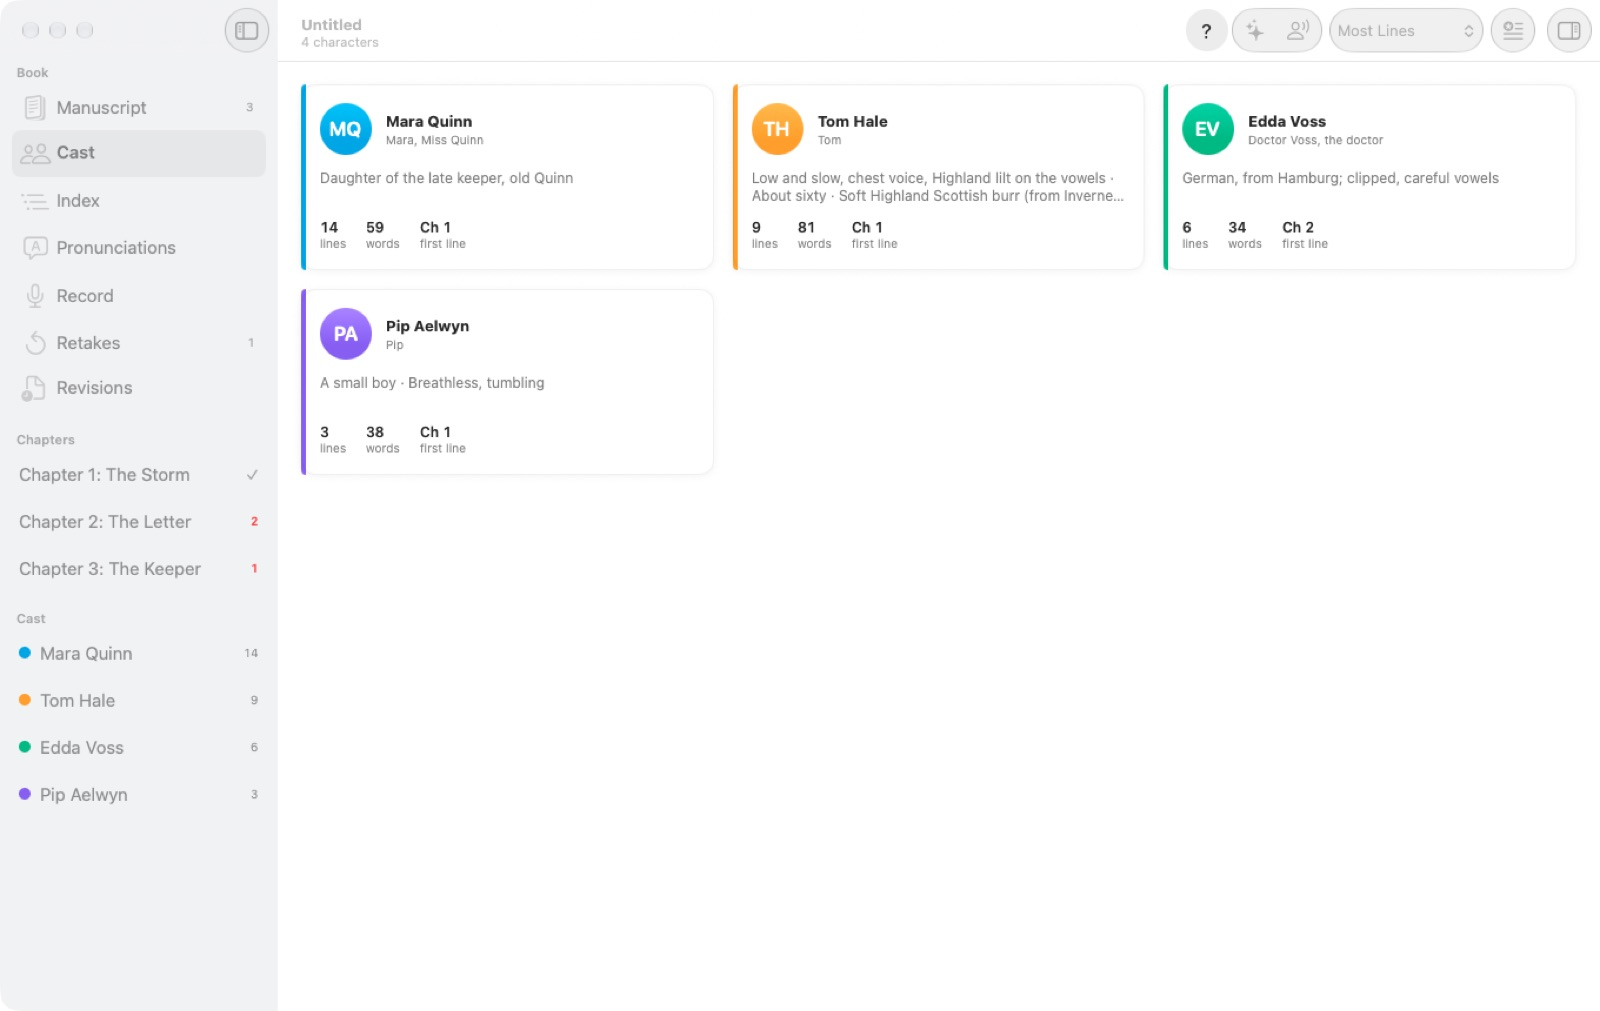
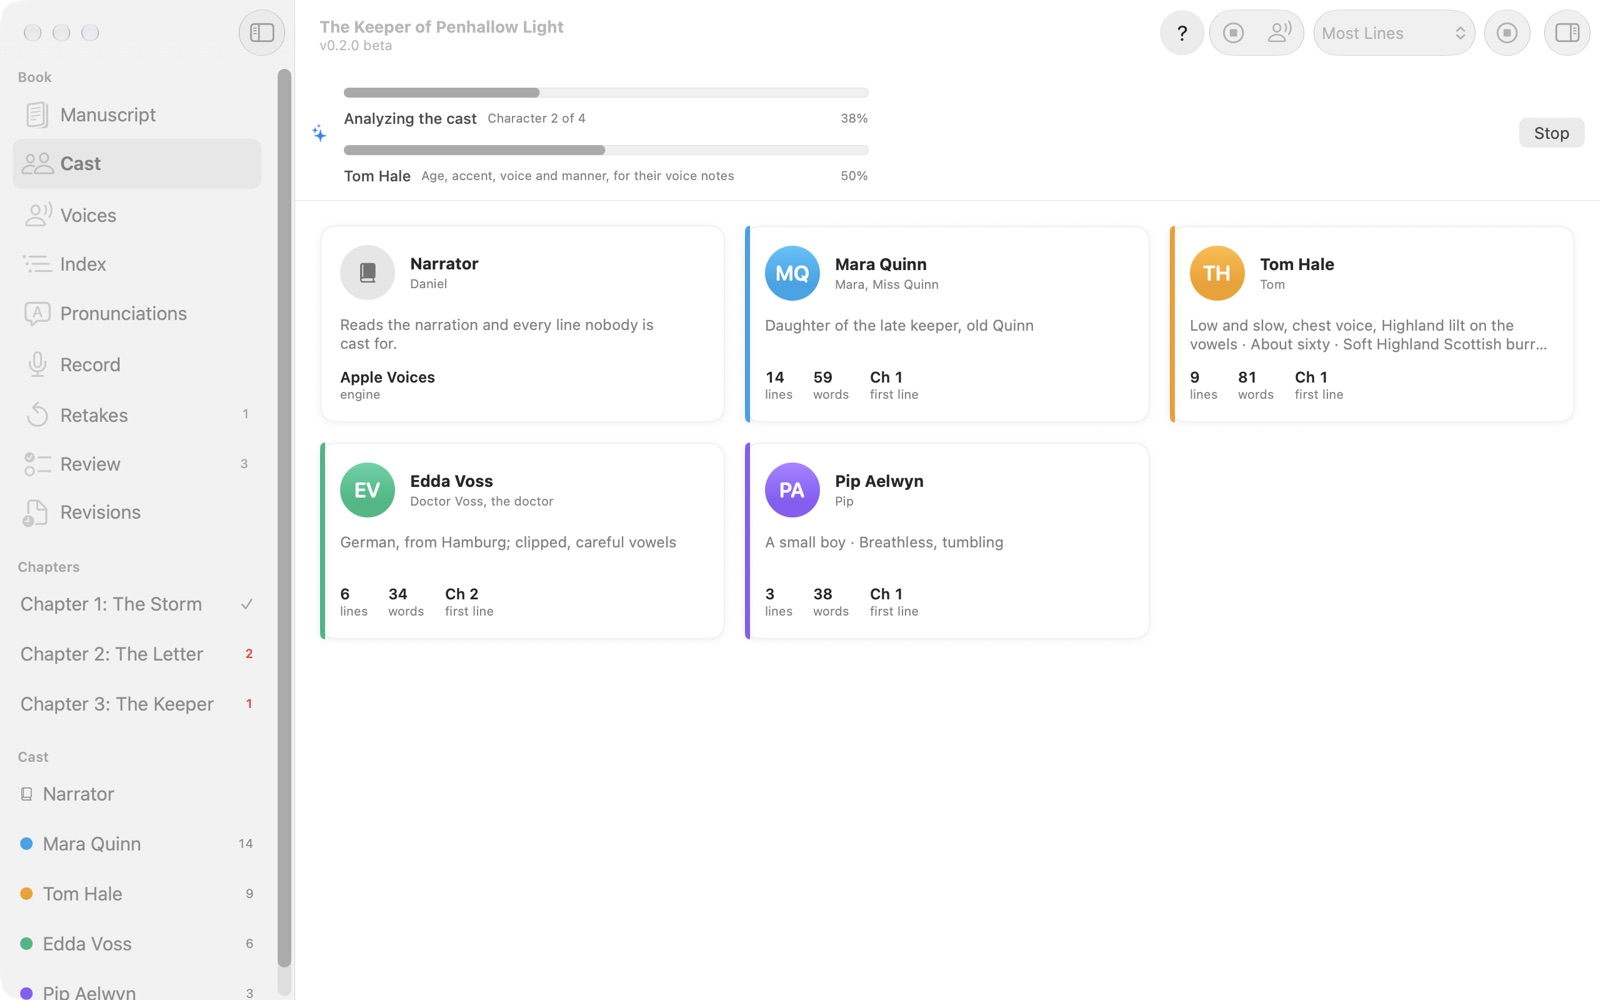
README and Help: project types, voice notes, voice briefs, engines, ElevenLabs, pauses, stats; new screenshots

diff --git a/Sources/InnerVoice/System/HelpTopics.swift b/Sources/InnerVoice/System/HelpTopics.swift
@@ -200,7 +200,7 @@ enum HelpTopic: String, CaseIterable, Identifiable, Hashable {
             .text("Then each book asks before its text is sent for the first time, when you choose ElevenLabs (or include it in Mix Engines) on its Voices page. A table read or an exported book sends the whole manuscript, so allow it only for books you have the right to share. Stop Sending This Book on the Voices page ends it for that book, and Disconnect in Settings › Voices forgets the key. Audio ElevenLabs already made stays in the saved audio on this Mac."),
             .heading("Voice Notes and the AI voices"),
             .text("Qwen3-TTS and ElevenLabs can design a voice from a description, so they get each character's Voice Notes: your own notes first, then the voice brief and \"From the book\". With Qwen3-TTS this happens on its own: a character whose summary or Voice Notes say how they sound gets a voice designed for them, and the notes go with it every time it speaks, so editing them changes the voice (the first line after an edit takes a few seconds while the new voice is made). Ready-made voices you pick stay as they are."),
-            .text("With ElevenLabs, click Design Voice under Design a Voice from Voice Notes on a character's Voices page. You see exactly what will be sent; ElevenLabs designs a voice from it, adds it to your ElevenLabs voices, and gives it to the character. It uses credits and one of your plan's voice slots, so it only happens when you click. Orpheus and Apple voices can't take a description: casting reads the notes for gender, age, pitch and pace instead."),
+            .text("With ElevenLabs, click Design Voice under Design a Voice from Voice Notes on a character's Voices page. You see exactly what will be sent; ElevenLabs designs a voice from it, adds it to your ElevenLabs voices, and gives it to the character. It uses credits and one of your plan's voice slots, so it only happens when you click. If a character's voice list says ElevenLabs voices haven't loaded, click Load Voices; when loading fails it says why (a key without permission to read voices, no credits left, or no internet). Orpheus and Apple voices can't take a description: casting reads the notes for gender, age, pitch and pace instead."),
             .text("Download Qwen3-TTS and Orpheus once from Settings › Voices, or from the Voices page when you choose one. Downloading is the only time they use the internet; your book never leaves the Mac. They need a Mac with Apple silicon, and the first line takes a few seconds while the engine loads."),
             .text("Want a wider range? Choose Mix Engines from the engine menu on the Voices page (when two or more engines are on). Every voice from every engine that's on is in one list, and casting picks from all of them; each character can sound like a different engine. On a Mac with 32 GB of memory or more, Qwen3-TTS and Orpheus stay loaded together, so lines play without waiting for a model to load."),
             .text("The first line from Qwen3-TTS or Orpheus takes a few seconds while the engine loads; a bar at the bottom of the window says so. If a line can't play, the bar says why."),
@@ -218,7 +218,7 @@ enum HelpTopic: String, CaseIterable, Identifiable, Hashable {
             .text("After it reads about everyone, Build Summaries writes a voice brief for each character into their Voice Notes under \"Voice brief:\": pitch, pace, texture, attitude, and how they should differ from the characters they share scenes with (\"Lower and slower than Mara; rougher than Edda\"). Main characters come first, so each later brief can set itself apart from voices already described. Your own notes come first when the AI writes it."),
             .text("Casting reads the brief: a low or high pitch and a slow or quick pace go into the Qwen3-TTS voice description and nudge the pitch and speed of Apple voices. Like \"From the book\", the brief is yours once you edit it."),
             .heading("When the AI is working"),
-            .text("Whenever the AI is working in the background (Tag Speakers, Build Summaries, voice briefs, or an AI voice engine loading its models), a bar at the top of the page shows how far it has got, with Stop for the runs you started."),
+            .text("Whenever the AI is working in the background (Tag Speakers, Build Summaries, voice briefs, or an AI voice engine loading its models), a bar at the top of the page shows how far it has got, with Stop for the runs you started. It's on every page, the Cast page and each character's page included; in the Manuscript, Tag Speakers shows its own banner."),
             .heading("Voice notes from the book"),
             .text("What Build Summary learns about how a character sounds (age, gender, accent, voice and manner) goes into their Voice Notes under \"From the book:\", below anything you wrote. Casting and the AI voices read the notes, so editing them fine-tunes how the character sounds; voices you chose yourself don't change. Once you edit the \"From the book\" part it's yours, and Build Summary leaves it alone. Delete it to get a fresh one next time."),
             .text("A fact the AI can't back up with text from the book is dropped, so every fact you see can be checked."),
@@ -226,6 +226,7 @@ enum HelpTopic: String, CaseIterable, Identifiable, Hashable {
             .text("A fact marked Revealed Late is first mentioned after the character's first line, for example \"First speaks Ch 2, revealed Ch 20\". It's worth knowing before you choose a voice in Chapter 2."),
             .heading("Editing"),
             .text("Change a character's name, aliases, color or any fact, and add your own notes and voice notes. A fact you edited is never replaced when Build Summaries runs again."),
+            .text("What you type in these fields is saved when you pause, press Return or click elsewhere, so typing stays quick on a long book. A burst of typing is one step to undo (⌘Z)."),
         ]
 
         case .indexAndRehearse: [
@@ -356,6 +357,7 @@ enum HelpTopic: String, CaseIterable, Identifiable, Hashable {
             .text("Settings › General › Updates chooses what InnerVoice does when a new version is out: install it automatically while your Mac is idle and the AI isn't working, ask you first, or not check at all. Check Now looks right away."),
             .heading("What's new"),
             .text("The update window shows the notes for the latest releases, with the ones you don't have yet marked New. \"Don't remind me about this version\" is ticked to begin with: click Not Now with it ticked, and InnerVoice stops reminding you about that version (Check Now still offers it)."),
+            .text("The version you're running is on the Welcome window, under the book's name at the top of every project window, and in About InnerVoice."),
             .text("After an update that installed itself, Settings shows what changed the next time it opens. What's New… beside Check Now shows the notes any time, and About InnerVoice shows the last 10 releases."),
         ]
         }

diff --git a/Sources/InnerVoice/Speech/VoiceModels.swift b/Sources/InnerVoice/Speech/VoiceModels.swift
@@ -26,7 +26,7 @@ nonisolated struct VoicePack: Sendable {
         engine: .qwen,
         repos: [VoicePack.qwenDesignRepo, VoicePack.qwenCloneRepo],
         bytes: 6_180_000_000,
-        summary: "A voice designed for each character from their summary, kept the same on every line and acted in each tone.")
+        summary: "A voice designed for each character from their summary and Voice Notes, kept the same on every line and acted in each tone.")
 
     /// Designs a voice from a description and acts in a tone.
     static let qwenDesignRepo = "mlx-community/Qwen3-TTS-12Hz-1.7B-VoiceDesign-8bit"

diff --git a/README.md b/README.md
@@ -1,6 +1,6 @@
 # InnerVoice
 
-InnerVoice helps audiobook narrators prepare a book before they press record. Open the manuscript and an AI that runs entirely on your Mac reads it, colors every spoken line by who says it, and builds a summary of each character from what the book says about them: age, gender, accent, voice, personality, history. When it isn't sure who's speaking, the line turns red with its best guess in the margin ("Cyrus?"), so you can confirm or fix it with a keystroke.
+InnerVoice helps audiobook narrators prepare a book before they press record, and helps writers turn a book into an audiobook with AI voices. Open the manuscript and an AI that runs entirely on your Mac reads it, colors every spoken line by who says it, and builds a summary of each character from what the book says about them: age, gender, accent, voice, personality, history. When it isn't sure who's speaking, the line turns red with its best guess in the margin ("Cyrus?"), so you can confirm or fix it with a keystroke.
 
 No more highlighter pens, character notes in a separate document, or hunting for a minor character's three lines in chapter 31. Your manuscript stays on your Mac, unless you choose ElevenLabs' cloud voices for a book (InnerVoice asks first).
 
@@ -20,6 +20,7 @@ The first time you click Tag Speakers, InnerVoice suggests an AI model for your 
 
 ## Features
 
+- **Two kinds of project.** When you open a book, choose what it's for. **Narration Tools** is for narrating it yourself: who's speaking, summaries, the index, rehearsal, the booth teleprompter, retakes and narrator scripts. **Produce with AI Voices** is for making the audiobook with AI voices: a voice and a tone for every character, table reads and audio export, with a guided setup. Each shows only its own tools; switch any time in Book › Project Settings and nothing is lost.
 - **Opens the manuscript you were sent.** Word (.docx and .doc), PDF, RTF, plain text, Markdown, OpenDocument, Pages (with a preview saved), EPUB and HTML. PDF page numbers, running headers and hyphenation are cleaned up. For Google Docs, choose File › Download › Microsoft Word first.
 - **Tag Speakers.** Plain rules find every line first ("said Tom", a quote that runs across paragraphs, a two-person back-and-forth, italic thoughts, letters), then the on-device AI decides who speaks the rest. Chapters fill with color while you keep reading; Stop keeps what's done.
 - **Your choice of model.** InnerVoice reads your Mac's memory and recommends a model, with a note on every model saying why it fits or doesn't: from a 2.5 GB model for 8 GB Macs to a 19 GB one for 64 GB Macs, or Apple's built-in on-device model with no download. You can also use any GGUF model file.
@@ -28,7 +29,12 @@ The first time you click Tag Speakers, InnerVoice suggests an AI model for your 
 - **Fix lines in a click.** Click a line, type a few letters or press 1–9, and it's assigned; Narration (not spoken), at the top of the same list, takes the color off text no one says aloud. Pin the characters you use most to the top of every speaker list, start typing in the right-click list to find anyone, and right-click a name in the margin to give that speaker's lines in the paragraph to someone else. Fix one line of a back-and-forth and InnerVoice offers to swap the rest of the exchange. Select a passage to assign several lines at once, merge "Mara" into "Mara Quinn", or make a line from text it missed. Everything can be undone.
 - **Delete what you won't read.** Select an ISBN, a copyright page or an ad for another book and press Delete; it leaves the project and every script, and the file you imported stays as it was. Projects save themselves 30 seconds after a change, so you never stop to save.
 - **Character summaries you can check.** Each fact the AI finds links to the paragraph it came from, and facts revealed only after a character first speaks are flagged **Revealed Late**, so you know about that Highland accent before chapter 2, not after chapter 20. Edit any fact, add your own, and keep voice notes.
-- **Hear every character.** InnerVoice casts a voice for each character from what the book says about them (gender, age, accent) and keeps two characters in the same scene from sounding alike. The Voices page plays any voice with the character's own words; speed and pitch fine-tune it. Every line also gets a tone (excited, sad, angry, whispered and five more) from the speech tags and the AI, with unsure ones waiting in Review. Play a line (⌥Space), play a table read from anywhere (⌥⇧Space, with or without narration), hear cue lines in Rehearse, or export the book, a chapter or one character's lines as M4A or WAV. It all runs on your Mac: Apple's voices (including the free Premium ones) work right away, and two AI voice engines are a download away in Settings › Voices. Qwen3-TTS designs a voice for each character from their summary and acts every tone in it; Orpheus has eight natural voices and performs the sighs, laughs and gasps in the speech tags.
+- **Voice notes that write themselves.** Build Summaries on the Cast page reads the book for every character, with a bar for the whole cast, a bar for the character being read, and their name. What it learns about how someone sounds (age, accent, voice, manner) goes into their Voice Notes under "From the book", followed by a **voice brief**: pitch, pace, texture, attitude, and how they should sound different from the characters they share scenes with. Your own notes always come first, and anything you edit is yours. Running it again on the whole cast asks first.
+- **Hear every character.** InnerVoice casts a voice for each character from their summary and Voice Notes (gender, age, accent, pitch, pace) and keeps two characters in the same scene from sounding alike. The Voices page plays any voice with the character's own words; speed and pitch fine-tune it. Every line also gets a tone (excited, sad, angry, whispered and five more) from the speech tags and the AI, with unsure ones waiting in Review. Play a line (⌥Space), play a table read from anywhere (⌥⇧Space, with or without narration), hear cue lines in Rehearse, or export the book, a chapter or one character's lines as M4A or WAV.
+- **A narrator voice everywhere.** The narrator has a voice of their own on the Voices page, the Cast page, the sidebar and Export Audio, and any character can be "Same as Narrator". Letters and signs are read by the narrator (a setting), thoughts stay in the character's voice, softer, and a first-person book is narrated in the POV character's voice.
+- **Four voice engines.** Apple's voices (including the free Premium ones) work right away. Two AI engines that run on your Mac are a download away in Settings › Voices: **Qwen3-TTS** designs a voice for each character from their summary and Voice Notes, so editing the notes changes the voice, and acts every tone in it; **Orpheus** has eight natural voices and performs the sighs, laughs and gasps in the speech tags. **Mix Engines** casts from all of them at once, for a wider range. Turn off any engine you don't want.
+- **ElevenLabs, if you choose it.** ElevenLabs' cloud voices (eleven_v4) are the one exception to on-device: set it up with your own API key and a clear yes, and each book asks before any of its text is sent. **Design a Voice from Voice Notes** has ElevenLabs design a new voice from a character's description and notes, shown to you before anything is sent. Everything ElevenLabs is labeled Cloud.
+- **Pauses and speed, tuned by ear.** Set the pause between sentences, after a line, between paragraphs, after a chapter title, at a scene break and between chapters, start from Tight, Natural or Relaxed, and try it at 0.75× to 2× on a passage from your own book. Changes apply while it plays, and to Export Audio.
 - **Index.** Every character's lines by chapter, each a link into the book. Main characters start hidden so the index stays short; turn any character on or off.
 - **Rehearse.** Step through one character's lines, each with the line before it as a cue.
 - **Multi-narrator productions.** Add narrators, cast characters to them, and export a Narrator Script for each one (PDF or Word) with their lines, cue lines and character summaries.
@@ -36,14 +42,24 @@ The first time you click Tag Speakers, InnerVoice suggests an AI model for your 
 - **Record.** A large-type teleprompter for the booth: one paragraph at a time, the speaker's color and voice cue, the next speaker below. Space or → moves on and marks the paragraph recorded, ← goes back, R marks a retake with a note. Foot pedals that send keys work too.
 - **Revised manuscripts.** When the author sends a new draft, import it: tags, notes, recorded marks and retakes stay on every paragraph that didn't change, edited lines keep their speakers, and a Revisions list walks you through what's new.
 - **Exports.** The tagged manuscript as a color PDF for print or iPad, Narrator Scripts, the cast list and the pronunciation guide (PDF, Word or CSV).
+- **See how much it saves you.** Book › Book Stats shows how much of the book was tagged for you and what's left to review; Settings › Activity counts lines tagged, voices played and exported, time saved (an estimate) and how often each AI model's guesses were kept, on this Mac or all your Macs. Only counts are kept, never anything from a book.
+- **Always know what's running.** A bar at the top of the window shows any AI work in the background (Tag Speakers, Build Summaries, voice briefs, a voice engine loading), with Stop. The version is on the Welcome window and under the book's name.
 - **The usual comforts.** Light or dark appearance, menu bar and Dock icons you can hide, Ask before quitting, settings that follow you to your other Macs, updates from GitHub, ToolHUD and ShortcutsLens support, and Help built in (⌘?).
 
 ## Screenshots
 
 <table>
 <tr>
-<td width="50%"><img src="docs/images/cast.jpg" alt="The Cast page: a card per character with initials, voice cue and line counts"><br><sub><b>Cast.</b> Every character with a voice cue from their summary.</sub></td>
-<td width="50%"><img src="docs/images/character.jpg" alt="A character page with summary facts, each linked to its source paragraph, and a Revealed Late badge"><br><sub><b>Summaries.</b> Each fact links to the line it came from.</sub></td>
+<td width="50%"><img src="docs/images/cast.jpg" alt="The Cast page while Build Summaries runs: a bar for the whole cast and one for the character being read, above a card per character"><br><sub><b>Build Summaries.</b> The whole cast, one character at a time.</sub></td>
+<td width="50%"><img src="docs/images/character.jpg" alt="A character page with their voice, best-fitting voices, summary facts linked to their source paragraphs, and Voice Notes"><br><sub><b>Characters.</b> Voice, summary and Voice Notes on one page.</sub></td>
+</tr>
+<tr>
+<td width="50%"><img src="docs/images/voices.jpg" alt="The Voices page mixing engines: the narrator and cast on the left, the chosen Qwen3-TTS voice, best fits and Describe a Voice on the right"><br><sub><b>Voices.</b> Mix engines, or describe any voice.</sub></td>
+<td width="50%"><img src="docs/images/pauses.jpg" alt="Settings, Voices: table read options, pause sliders with presets, playback speed, and the voice engines"><br><sub><b>Pauses.</b> Tune the gaps by ear, at any speed.</sub></td>
+</tr>
+<tr>
+<td width="50%"><img src="docs/images/project-type.jpg" alt="What is this project for? Narration Tools or Produce with AI Voices"><br><sub><b>Project types.</b> Narrate it yourself, or produce it with AI voices.</sub></td>
+<td width="50%"><img src="docs/images/stats.jpg" alt="Book Stats: share of lines tagged for you, chapters done, lines that need you, and counts for speakers and narration"><br><sub><b>Book Stats.</b> What's done and what's left.</sub></td>
 </tr>
 <tr>
 <td width="50%"><img src="docs/images/record.jpg" alt="Record: the current paragraph in large type with the speaker's name and voice cue"><br><sub><b>Record.</b> A teleprompter for the booth.</sub></td>
@@ -53,7 +69,7 @@ The first time you click Tag Speakers, InnerVoice suggests an AI model for your 
 
 ## Privacy
 
-InnerVoice reads your manuscript with a model running on your Mac. Nothing in the book is sent anywhere. The only downloads are the model you choose (once, from Hugging Face) and InnerVoice's own updates (from GitHub).
+InnerVoice reads your manuscript with a model running on your Mac, and Apple Voices, Qwen3-TTS and Orpheus speak it on your Mac too. Nothing in the book is sent anywhere, with one exception you choose: ElevenLabs. It's off until you add your own ElevenLabs key and agree that text goes to ElevenLabs, and then each book asks before its text is sent; the lines its voices speak, and the descriptions for any voice you design, go to ElevenLabs' servers. Stop Sending This Book ends it for a book. The only downloads are the models you choose (once, from Hugging Face) and InnerVoice's own updates (from GitHub).
 
 ## Updates
 
